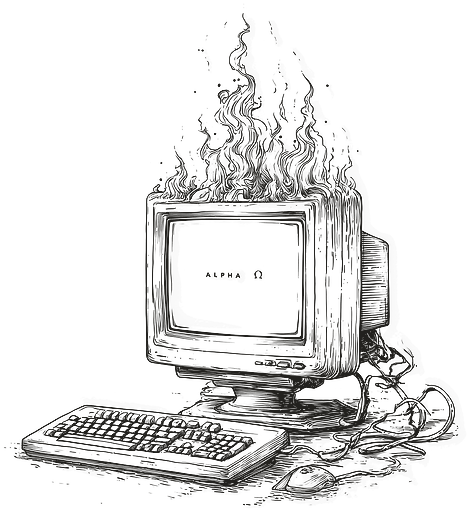
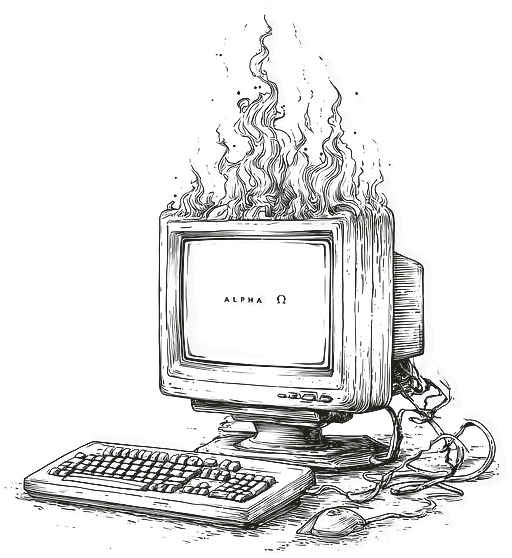
Le script d'ornements porte toute la chaîne, et la doctrine est consignée
LE SCRIPT. Il partait d'une planche déjà posée dans public/ornements et
n'en mesurait que le fond, aux quatre coins. Il part maintenant de la
source brute et porte les cinq étapes : rogner le pourtour, mesurer le
papier par son niveau dominant, rogner les marges, réduire au double de
la taille d'affichage puis raviver, détourer en reposant l'encre.

  node scripts/ornements-detourer.mjs --source <chemin> --nom <nom>
       --affichage <px CSS à la racine 16> [--ecrire]
  node scripts/ornements-detourer.mjs --profil <nom>…

Sans --ecrire il mesure, comme avant. --profil relève une planche déjà
servie : profil alpha, luminance de l'encre, et l'état du bord gauche,
là où se voyait le liseré.

LA DOCTRINE. Les quatre défauts du jour entrent dans AGENTS.md, à la
suite de la recette qu'ils corrigent, avec leurs mesures. Plus deux
corollaires : une marge négative se règle sur la composition et ne se
reconduit pas d'un dessin à l'autre ; et une gravure se juge à l'œil, à
sa taille réelle. La charte le disait déjà des emblèmes de couverture, et
trois passes de correction ont été menées ici sans que personne
agrandisse un trait.

Un angle mort de la garde chromatique est noté au passage : elle retire
les commentaires avant de mesurer, mais pas les CHAÎNES, si bien qu'une
note du registre qui NOMME une teinte la fait échouer.

LES TROIS GRANDES. Babel, le désert et la cité sont désormais à la même
taille, servie comme affichée : 1 632 px de fichier pour 816 affichés.
[…]

Changed region(s): [[0.0298, 0.0312, 0.983, 1.0], [0.4468, 0.5312, 0.5064, 0.5625], [0.5362, 0.5312, 0.566, 0.5625]]

diff --git a/app/admin/illustrations/inventaire.ts b/app/admin/illustrations/inventaire.ts
@@ -161,7 +161,7 @@ export const ILLUSTRATIONS: Illustration[] = [
     lieu: { href: '/?livre=MAT&chapitre=1&trad=TR0005', label: 'Matthieu 1 dans la Septante', repere: 'Au tiers supérieur de la colonne de lecture : la Septante ne comporte aucun livre du Nouveau Testament.' },
     source: 'app/components/TexteBible.tsx',
     traitement: { opacite: 0.92, ornement: true, largeur: 'au plus 51rem et 96 %, bornée en hauteur' },
-    note: 'Une cité basse sur un horizon vide, sa fumée seule montant dans le blanc : l’encre franche n’occupe que 1 510 sur 397 d’un cadre de 1 600 sur 1 194, et ce vide EST le propos. La marge négative sous la gravure revient pour cette raison, le quart inférieur du cadre étant un sol presque vide : le texte se pose à la lisière du sol plutôt que loin sous la planche. ⚠ Une marge négative se règle sur la COMPOSITION et ne se reconduit pas d’un dessin à l’autre — la planche intermédiaire de colonnades descendait au ras des pierres et l’avait fait ôter. ⛔ Trois reprises que la charte réclamait sur cette pose : elle passait par Image de Next, dont l’optimiseur aplatit parfois l’alpha sur du blanc et fait reparaître le fond ; le mix-blend-mode était mort, la planche étant détourée ; et la largeur de 190 px, absolue, ne suivait pas la police racine. Fabriquée par la chaîne commune aux gravures du 2026-08-26 : pourtour de la source rogné, papier ramené au blanc d’après son niveau DOMINANT, détourage, puis encre reposée en une teinte unique à la luminance 33, l’ALPHA étant calculé sur cette encre et non sur la médiane de la planche. Profil de gravure au trait : 87,1 % de transparents pour 11,1 % de partiels. ⛔ Le FICHIER est servi à deux fois sa taille d’affichage, jamais plus : au delà, le navigateur réduit une seconde fois derrière la nôtre, et deux réductions successives moyennent les hachures fines en un gris mou. La cité s’affichait à 549 px dans une colonne de 620 pour un fichier de 1 600, soit 2,9 fois trop — c’est ce qui la rendait baveuse quand la tour, servie au double exact, restait nette. La taille d’affichage se calcule à la racine 22, la plus grande que la police fluide atteigne, et un léger rattrapage de netteté compense la seule réduction qui reste.',
+    note: 'Une cité basse sur un horizon vide, sa fumée seule montant dans le blanc : l’encre franche n’occupe que 1 510 sur 397 d’un cadre de 1 600 sur 1 194, et ce vide EST le propos. La marge négative sous la gravure revient pour cette raison, le quart inférieur du cadre étant un sol presque vide : le texte se pose à la lisière du sol plutôt que loin sous la planche. ⚠ Une marge négative se règle sur la COMPOSITION et ne se reconduit pas d’un dessin à l’autre — la planche intermédiaire de colonnades descendait au ras des pierres et l’avait fait ôter. ⛔ Trois reprises que la charte réclamait sur cette pose : elle passait par Image de Next, dont l’optimiseur aplatit parfois l’alpha sur du blanc et fait reparaître le fond ; le mix-blend-mode était mort, la planche étant détourée ; et la largeur de 190 px, absolue, ne suivait pas la police racine. Fabriquée par la chaîne commune aux gravures du 2026-08-26 : pourtour de la source rogné, papier ramené au blanc d’après son niveau DOMINANT, détourage, puis encre reposée en une teinte unique à la luminance 33, l’ALPHA étant calculé sur cette encre et non sur la médiane de la planche. Profil de gravure au trait : 87,1 % de transparents pour 11,1 % de partiels. ⛔ Le FICHIER est servi à deux fois sa taille d’affichage, jamais plus : au delà, le navigateur réduit une seconde fois derrière la nôtre, et deux réductions successives moyennent les hachures fines en un gris mou. La cité s’affichait à 549 px dans une colonne de 620 pour un fichier de 1 600, soit 2,9 fois trop — c’est ce qui la rendait baveuse quand la tour, servie au double exact, restait nette. La taille d’affichage se calcule à la racine 22, la plus grande que la police fluide atteigne, et un léger rattrapage de netteté compense la seule réduction qui reste. ⚠ Son bloc SORT de la mesure de lecture, et il le faut : les trois grandes gravures du site — Babel sur le Polyglotte, le désert sur la recherche, la cité ici — partagent la même pose, mais celle-ci vivait dans une colonne de 620 px quand les deux autres ont toute la largeur. Elle s’affichait à 549 contre 816. La largeur du bloc est celle qui rend exactement 51rem une fois les 96 % du maximum appliqués, soit 53,125rem, et le débordement se centre sur l’axe du parent.',
   },
 
 

diff --git a/app/components/TexteBible.tsx b/app/components/TexteBible.tsx
@@ -573,7 +573,15 @@ export default function TexteBible({
           {(versets.length === 0 || versets.every(v => !v[traduction] && !estLigne899(v))) && (
             // Charte : l'image + légende se placent au tiers supérieur du bloc,
             // non centrées verticalement dans le vide.
-            <div style={{ display: 'flex', flexDirection: 'column', alignItems: 'center', justifyContent: 'flex-start', minHeight: '60vh', gap: 0, padding: '8vh 16px 0' }}>
+            // ⛔ Le bloc SORT de la mesure de lecture, et il le faut. Les trois grandes
+            // gravures du site — Babel sur le Polyglotte, le désert sur la recherche, la
+            // cité ici — partagent la même pose, mais celle-ci vivait dans une colonne de
+            // 620 px quand les deux autres ont toute la largeur : elle s'affichait à 549
+            // contre 816, et se trouvait servie 2,9 fois trop grande, d'où un trait gris et
+            // mou. La largeur est celle qui rend EXACTEMENT 51rem une fois les 96 % du
+            // maximum appliqués (51 / 0,96 = 53,125), et le débordement est centré sur l'axe
+            // du parent, lui-même centré dans la page.
+            <div style={{ display: 'flex', flexDirection: 'column', alignItems: 'center', justifyContent: 'flex-start', minHeight: '60vh', gap: 0, padding: '8vh 16px 0', boxSizing: 'border-box', width: 'min(53.125rem, 94vw)', marginLeft: '50%', transform: 'translateX(-50%)' }}>
               {/* Des ruines fumantes plutôt qu'un fleuron : l'ornement disait « fin de
                   chapitre », là où il faut dire « il n'y a rien ici ».
 

diff --git a/AGENTS.md b/AGENTS.md
@@ -439,6 +439,24 @@ Les gravures de `public/ornements/` arrivent sur un fond crème. Pour qu'elles s
 
 **Contrôle**, avant de committer : l'histogramme du canal alpha. Sur `ordinateur-pentecote.png`, 81 % du plan est réellement transparent, 3 % est de l'encre pleine et 15,7 % des partiels — les hachures. Un fond mal mesuré se voit tout de suite : le taux de transparents s'effondre.
 
+### La recette RÉVISÉE (2026-08-26) — quatre défauts trouvés à l'usage, aucun visible au code
+
+Le script porte désormais TOUTE la chaîne, source brute comprise : `node scripts/ornements-detourer.mjs --source <chemin> --nom <nom> --affichage <px CSS à la racine 16> [--ecrire]`. Sans `--ecrire` il mesure ; `--profil <nom>` relève une planche déjà servie. Les quatre défauts ci-dessous ont tous été trouvés à l'œil, sur des planches que le code déclarait saines.
+
+⛔ **UN FICHIER SE SERT AU DOUBLE DE SA TAILLE D'AFFICHAGE, JAMAIS PLUS.** C'est le plus coûteux des quatre, et le seul que l'auteur ait dû signaler deux fois. Au delà, le navigateur réduit une SECONDE fois derrière la nôtre, et deux réductions successives moyennent les hachures fines en un gris mou : le trait cesse d'être noir. Le rapport dit tout, et il explique pourquoi le défaut ne frappait qu'une partie des planches — la tour de Babel, servie en 1 632 px pour 816 affichés, restait franche ; la cité ruinée, servie en 1 600 px dans une colonne de lecture qui l'affiche à 549, bavait. Rapports mesurés le jour du relevé : 2,0 pour la tour et le désert, **2,9 pour la cité, 3,2 pour la carapace, 3,6 pour l'ordinateur**. ⚠ La taille d'affichage se calcule à la RACINE 16, le cas courant ; sur un très grand écran la pose grandit et le rapport retombe vers 1,45, ce qui est une réduction douce. Un léger rattrapage de netteté compense celle qui reste.
+
+⛔ **L'ALPHA se calcule sur l'encre qu'on REPOSE, non sur la médiane de la planche.** L'ancienne recette prenait `amplitude = papier − médiane de l'encre`, ce qui est juste tant qu'on GARDE l'encre décomposée pixel par pixel. Dès qu'on repose une encre plus sombre — et c'est ce que la charte prescrit depuis le monogramme —, les deux ne s'accordent plus et tout le dégradé qui borde un trait s'assombrit. Mesuré sur les colonnades, dont la médiane était à 111 pour une encre reposée à 33 : un gris à 180 rendait **136**, un gris à 140 rendait **76**. Corrigé, l'écart moyen au dessin d'origine tombe à **1 niveau**.
+
+⛔ **On ne DÉCOMPOSE plus l'encre.** Sur un papier presque blanc, `c = (vu − fond × (1−a)) / a` divise par un alpha faible et fait exploser l'écart entre canaux là où le trait s'éteint. Mesuré sur l'arbre au corbeau : **12 208 teintes distinctes, de moyenne BLEUE**, pour 936 Ko. La charte avait déjà tranché ce cas à propos du monogramme — « le détourage ne sert que l'ALPHA : la couleur, on la repose ». L'encre de la famille est mesurée sur la tour de Babel ruinée, à la luminance 33 ; toutes les gravures la partagent, de sorte qu'une même absence se dise partout de la même voix. ⚠ Elle n'est pas noire : un noir franc sur le crème du site fait un trait d'imprimante, non une encre.
+
+⛔ **Le PAPIER se mesure par son niveau DOMINANT, jamais aux quatre COINS.** Celui d'une planche est à 253, celui d'une autre à 247, et leurs coins seuls sont à 255 : le script prenait alors les 90 % de papier pour une encre très pâle et rendait **87 % de partiels au lieu de 6 %**. Même raisonnement que pour l'encre, dont la charte dit déjà qu'elle se mesure par sa médiane et ne se suppose pas noire.
+
+⚠ **Le POURTOUR de la source se rogne avant tout traitement.** Les planches de Midjourney portent un liseré sombre sur leur bord — 243 de luminance contre 247 à 249 pour le papier. Il passe sous le seuil de normalisation, devient de l'encre, et se voit comme une **barre noire** le long du bord gauche. Il empêche en outre le rognage des marges, un bord sombre l'arrêtant aussitôt : c'est lui qui laissait un ciel vide occuper le tiers de deux planches. Trente-deux pixels suffisent.
+
+⚠ **Une MARGE NÉGATIVE sous une gravure se règle sur la COMPOSITION, elle ne se reconduit pas d'un dessin à l'autre.** Celle du livre absent existait parce que la planche carrée laissait du blanc sous des ruines posées haut. Une planche intermédiaire descendait au ras des pierres et l'a fait ôter ; la cité ruinée repose de nouveau bas dans son cadre et l'a fait revenir. Trois dessins, trois réglages.
+
+⚠ **Et le corollaire de méthode, qui vaut au delà des ornements : une gravure se juge à l'ŒIL et à sa taille RÉELLE.** La charte le disait déjà des emblèmes de couverture, dont cinq sur neuf passaient pour autre chose une fois rendus à 90 px. Trois passes de correction ont été menées ici sur des mesures et des histogrammes sans que personne agrandisse un trait ; l'agrandissement au quadruple a donné la réponse en une seconde.
+
 **Une gravure se pose EN PIED, pas en tête.** Le dossier le dit dans ses propres noms de fichiers : `cul-de-lampe-*`. Un ornement ferme un texte et le commente ; placé au-dessus, il devient l'enseigne de la page, et l'on bute dessus avant de savoir de quoi il retourne. Corrigé le 2026-08-19 sur l'écran d'attente de la Polyglotte, où la gravure avait d'abord été mise en frontispice. **L'intensité suit la place** : les culs-de-lampe du site sont posés entre **0,42 et 0,5** d'opacité, parce qu'ils n'ornent qu'un vide. Une gravure qui porte encore le propos monte au-dessus, sans atteindre l'opaque — 0,72 sur la Polyglotte.
 
 ⚠ **Rendu en `<img>`, pas en `<Image>`, ou alors `unoptimized`.** À certaines largeurs (640 px, mais ni 384 ni 828), l'optimiseur rend un PNG à trois canaux : la couche alpha est aplatie sur du blanc et le fond réapparaît. Le défaut est intermittent, donc facile à croire corrigé.
@@ -786,6 +804,7 @@ C'est la trouvaille de fond de l'audit, et elle explique tout le reste. Le site 
 - **Hors registre par NATURE** : un noir ou un blanc **translucide** (`rgba(0,0,0,0.4)`) est une ombre ou un calque — la forme que la charte prescrit, et elle rend la même chose sous les deux thèmes. Un noir ou un blanc **opaque** reste au registre : c'est une encre, et une encre se transpose.
 - **La forme tokenisée n'entre jamais au registre** : `rgba(var(--cs-vert-rgb), 0.07)` commence par `var`, le motif ne retient que les fonctions dont le premier argument est un chiffre.
 - **Les commentaires sont retirés avant la mesure** : un commentaire qui CITE une teinte n'en pose aucune, et la charte du dépôt en cite beaucoup.
+- ⚠ **Les CHAÎNES, elles, ne sont pas retirées**, et c'est un angle mort : une note de `inventaire.ts` qui NOMME une teinte en prose fait échouer la garde, alors qu'elle n'en pose aucune. Constaté le 2026-08-26. Écrire « à la luminance 33 » plutôt que la forme fonctionnelle, ou traiter le cas dans la garde — mais ne jamais inscrire au registre une teinte que rien ne pose.
 
 ## Une couleur posée sur une PHOTO s'écrit en littéral
 
